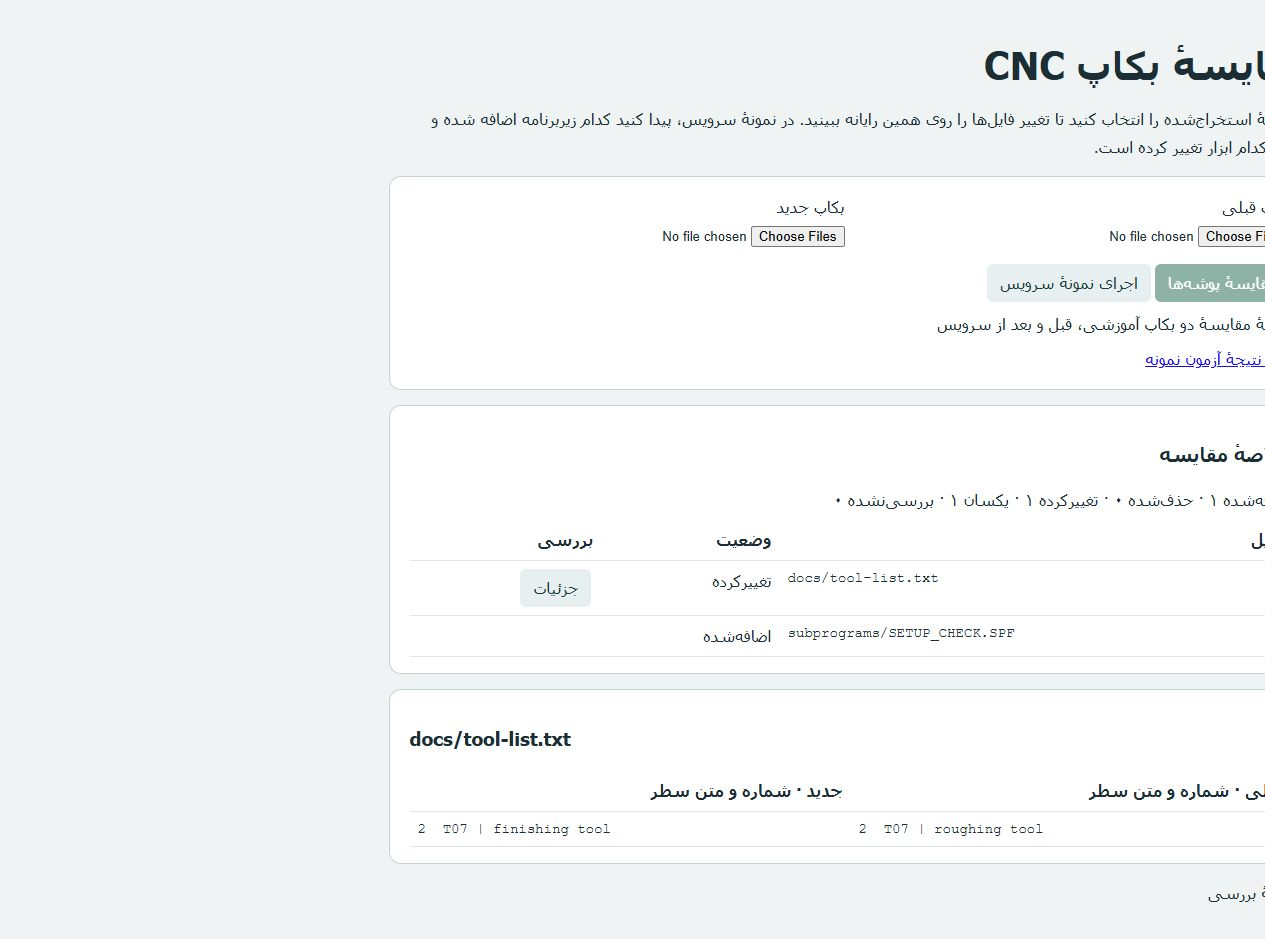
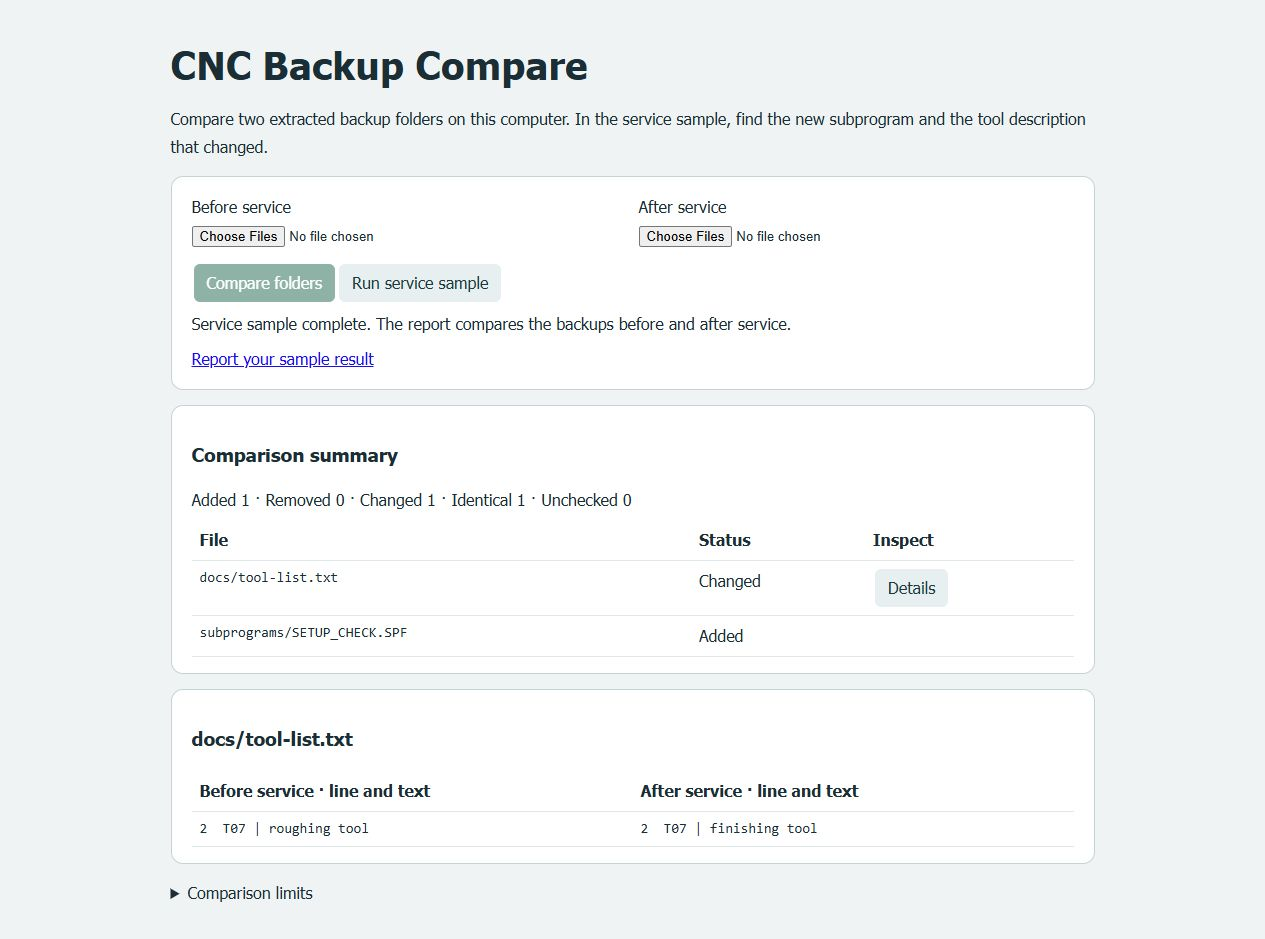
Use English throughout the browser app, sample and guide

diff --git a/index.html b/index.html
@@ -1,13 +1,13 @@
-<!doctype html><html lang="fa" dir="rtl"><meta charset="utf-8"><meta name="viewport" content="width=device-width,initial-scale=1"><meta http-equiv="Content-Security-Policy" content="default-src 'none'; style-src 'unsafe-inline'; script-src 'unsafe-inline'; connect-src 'none'; form-action 'none'; base-uri 'none'"><title>مقایسهٔ بکاپ CNC</title>
+<!doctype html><html lang="en" dir="ltr"><meta charset="utf-8"><meta name="viewport" content="width=device-width,initial-scale=1"><meta http-equiv="Content-Security-Policy" content="default-src 'none'; style-src 'unsafe-inline'; script-src 'unsafe-inline'; connect-src 'none'; form-action 'none'; base-uri 'none'"><title>CNC Backup Compare</title>
 <style>*{box-sizing:border-box}body{margin:0;background:#eff3f4;color:#192e35;font:16px/1.75 Tahoma,sans-serif}main{max-width:960px;margin:auto;padding:32px 18px}h1{margin:0;font-size:clamp(1.6rem,5vw,2.4rem)}h2{font-size:1.18rem}section{background:white;border:1px solid #c5d3d6;border-radius:12px;padding:16px 20px;margin:15px 0}p{margin:6px 0}.folders{display:flex;gap:12px;flex-wrap:wrap}label{flex:1;min-width:180px}input{max-width:100%;display:block;margin:5px 0 15px}button{font:inherit;cursor:pointer;background:#086650;color:white;border:0;border-radius:6px;padding:5px 13px;margin:2px}button.secondary{background:#e6eff0;color:#163b41}button:focus-visible,summary:focus-visible{outline:3px solid #b77607}button:disabled{opacity:.5}table{width:100%;border-collapse:collapse}td,th{padding:6px 8px;border-bottom:1px solid #dfe7e8;text-align:start;vertical-align:top;overflow-wrap:anywhere}td.path,td.code{direction:ltr;text-align:left;font:14px/1.6 monospace;white-space:pre-wrap}td.code{width:50%}small{color:#485d64}summary{cursor:pointer}#msg{min-height:1.8em}</style>
-<main><h1>مقایسهٔ بکاپ CNC</h1><p>دو پوشهٔ استخراجشده را انتخاب کنید تا تغییر فایلها را روی همین رایانه ببینید. در نمونهٔ سرویس، پیدا کنید کدام زیربرنامه اضافه شده و توضیح کدام ابزار تغییر کرده است.</p>
-<section><div class="folders"><label>بکاپ قبلی<input id="old" type="file" webkitdirectory multiple></label><label>بکاپ جدید<input id="new" type="file" webkitdirectory multiple></label></div><button id="go" disabled>مقایسهٔ پوشهها</button><button id="example" class="secondary">اجرای نمونهٔ سرویس</button><p id="msg" role="status"></p><a id="feedback" hidden href="https://github.com/aminenayatollahi-source/cnc-backup-compare/issues/1">ثبت نتیجهٔ آزمون نمونه</a></section>
-<section id="report" hidden><h2>خلاصهٔ مقایسه</h2><p id="counts"></p><table><thead><tr><th>فایل</th><th>وضعیت</th><th>بررسی</th></tr></thead><tbody id="list"></tbody></table></section><section id="detail" hidden><h2 id="which" dir="auto"></h2><div id="diff"></div></section>
-<details><summary>دامنهٔ بررسی</summary><p>مقایسه بر اساس مسیر نسبی فایل است. فایلهای هممسیر تا ۶۴ MiB با SHA-256 مقایسه میشوند. موارد خواندهنشده جداگانه گزارش میشوند. مقایسهٔ سطری برای متن UTF-8 یا UTF-16 دارای BOM، تا ۱۲۸ KiB در هر فایل و حداکثر ۷۵۰٬۰۰۰ خانهٔ مقایسه در دسترس است. برای بکاپ فشرده، ابتدا پوشه را استخراج کنید. این ابزار محتوای اختصاصی ARC یا PLC را رمزگشایی نمیکند.</p></details></main><script>'use strict';
+<main><h1>CNC Backup Compare</h1><p>Compare two extracted backup folders on this computer. In the service sample, find the new subprogram and the tool description that changed.</p>
+<section><div class="folders"><label>Before service<input id="old" type="file" webkitdirectory multiple></label><label>After service<input id="new" type="file" webkitdirectory multiple></label></div><button id="go" disabled>Compare folders</button><button id="example" class="secondary">Run service sample</button><p id="msg" role="status"></p><a id="feedback" hidden href="https://github.com/aminenayatollahi-source/cnc-backup-compare/issues/1">Report your sample result</a></section>
+<section id="report" hidden><h2>Comparison summary</h2><p id="counts"></p><table><thead><tr><th>File</th><th>Status</th><th>Inspect</th></tr></thead><tbody id="list"></tbody></table></section><section id="detail" hidden><h2 id="which" dir="auto"></h2><div id="diff"></div></section>
+<details><summary>Comparison limits</summary><p>Files are matched by relative path and compared with SHA-256 up to 64 MiB per file. Unreadable or oversized files appear as unchecked. Line comparison supports UTF-8 and BOM-marked UTF-16 text up to 128 KiB per file and 750,000 comparison cells. Extract compressed backups first. Proprietary ARC and PLC formats are not decoded.</p></details></main><script>'use strict';
 const MAX_HASH = 64 * 1024 * 1024;
 const MAX_TEXT = 128 * 1024;
 async function fingerprint(file) {
-  if (file.size > MAX_HASH) throw new Error('بزرگتر از حد ۶۴ مگابایت');
+  if (file.size > MAX_HASH) throw new Error('Exceeds the 64 MiB limit');
   const bytes = await file.arrayBuffer();
   const hash = new Uint8Array(await crypto.subtle.digest('SHA-256', bytes));
   return Array.from(hash, b => b.toString(16).padStart(2,'0')).join('');
@@ -16,9 +16,9 @@ function indexFolder(files) {
   const map = new Map();
   for (const f of files) {
     const path = f.webkitRelativePath;
-    if (!path || !path.includes('/')) throw Error('مسیر نسبی پوشه در مرورگر موجود نیست.');
+    if (!path || !path.includes('/')) throw Error('The browser did not provide a relative folder path.');
     const key = path.slice(path.indexOf('/') + 1);
-    if (map.has(key)) throw Error('مسیر تکراری در پوشه');
+    if (map.has(key)) throw Error('Duplicate path in the selected folder.');
     map.set(key, f);
   }
   return map;
@@ -71,7 +71,7 @@ function changedLines(a,b) {
 }
 
 const $=id=>document.getElementById(id);
-const names={added:'اضافهشده',removed:'حذفشده',changed:'تغییرکرده',same:'یکسان',unchecked:'بررسینشده'};
+const names={added:'Added',removed:'Removed',changed:'Changed',same:'Identical',unchecked:'Unchecked'};
 let detailVersion=0, busy=false;
 function el(tag,t){const node=document.createElement(tag);node.textContent=t??'';return node;}
 function refresh(){ $('go').disabled=busy||!$('old').files.length||!$('new').files.length; }
@@ -80,37 +80,37 @@ $('old').onchange=clearReport;$('new').onchange=clearReport;
 async function inspect(r){
   const revision=++detailVersion;
   $('detail').hidden=false;$('which').textContent=r.path;
-  const diff=$('diff');diff.textContent='در حال خواندن…';
+  const diff=$('diff');diff.textContent='Reading file…';
   try {
     const [a,b]=await Promise.all([linesOf(r.a),linesOf(r.b)]);
     if(revision!==detailVersion)return;
-    if(!a||!b){diff.textContent='هش فایل تغییر کرده است. نمایش سطری برای این قالب یا اندازه در دسترس نیست.';return;}
+    if(!a||!b){diff.textContent='The file hash changed. Line comparison is unavailable for this file format or size.';return;}
     const lines=changedLines(a,b);
-    if(!lines){diff.textContent='هش فایل تغییر کرده است. تعداد سطرها از سقف نمایش بیشتر است.';return;}
-    if(!lines.length){diff.textContent='بایتها تغییر کردهاند، اما متن سطرها یکسان است. کُدگذاری یا پایان سطر میتواند علت باشد.';return;}
+    if(!lines){diff.textContent='The file hash changed. The number of lines exceeds the comparison limit.';return;}
+    if(!lines.length){diff.textContent='The file bytes differ but the text lines match. Check the encoding or line endings.';return;}
     const table=el('table'),head=table.createTHead().insertRow();
-    head.append(el('th','قبلی · شماره و متن سطر'),el('th','جدید · شماره و متن سطر'));
+    head.append(el('th','Before service · line and text'),el('th','After service · line and text'));
     const body=table.createTBody();for(const pair of lines){const row=body.insertRow();for(const item of pair){const c=row.insertCell();c.className='code';c.textContent=item?item[0]+'  '+item[1]:'—';}}diff.replaceChildren(table);
-  }catch{if(revision===detailVersion)diff.textContent='خواندن فایل برای نمایش سطرها ممکن نشد.';}
+  }catch{if(revision===detailVersion)diff.textContent='Could not read the file for line comparison.';}
 }
 async function run(getFolders,label,showFeedback=false){
   clearReport();busy=true;for(const id of ['go','example','old','new'])$(id).disabled=true;
   try{
-    if(!crypto.subtle)throw Error('مرورگر به SHA-256 دسترسی ندارد. فایل را در نسخهٔ جدید Edge یا Chrome باز کنید.');
-    $('msg').textContent='در حال مقایسه…';
+    if(!crypto.subtle)throw Error('SHA-256 is unavailable in this browser. Open the file in a recent version of Edge or Chrome.');
+    $('msg').textContent='Comparing files…';
     const data=await compareFolders(...getFolders()), stats={added:0,removed:0,changed:0,same:0,unchecked:0};
     const rows=document.createDocumentFragment();
     for(const r of data){stats[r.state]++;if(r.state==='same')continue;
       const row=el('tr'),path=row.insertCell();path.className='path';path.textContent=r.path;
       row.insertCell().textContent=names[r.state];const action=row.insertCell();
-      if(r.state==='changed'){const btn=el('button','جزئیات');btn.className='secondary';btn.onclick=()=>inspect(r);action.append(btn);}
+      if(r.state==='changed'){const btn=el('button','Details');btn.className='secondary';btn.onclick=()=>inspect(r);action.append(btn);}
       else if(r.note)action.textContent=r.note;rows.append(row);
     }
-    $('list').replaceChildren(rows);$('counts').textContent=Object.entries(stats).map(([k,v])=>names[k]+' '+v.toLocaleString('fa-IR')).join('  ·  ');$('report').hidden=false;$('msg').textContent=label;$('feedback').hidden=!showFeedback;
+    $('list').replaceChildren(rows);$('counts').textContent=Object.entries(stats).map(([k,v])=>names[k]+' '+v.toLocaleString('en-US')).join('  ·  ');$('report').hidden=false;$('msg').textContent=label;$('feedback').hidden=!showFeedback;
   }catch(e){$('msg').textContent=e.message}
   finally{busy=false;for(const id of ['example','old','new'])$(id).disabled=false;refresh();}
 }
-$('go').onclick=()=>run(()=>[indexFolder($('old').files),indexFolder($('new').files)],'مقایسهٔ فایلهای انتخابی پایان یافت.');
+$('go').onclick=()=>run(()=>[indexFolder($('old').files),indexFolder($('new').files)],'Finished comparing the selected folders.');
 function sampleFolders() {
   // Text-only fixtures for comparing the two snapshots from a fictional service visit.
   const before = new Map();
@@ -126,4 +126,4 @@ function sampleFolders() {
   addFile(after, 'subprograms/SETUP_CHECK.SPF', '; SETUP_CHECK: training placeholder\n; Service visit documentation\n');
   return [before, after];
 }
-$('example').onclick = () => run(sampleFolders, 'نتیجهٔ مقایسهٔ دو بکاپ آموزشی، قبل و بعد از سرویس', true);</script></html>
+$('example').onclick = () => run(sampleFolders, 'Service sample complete. The report compares the backups before and after service.', true);</script></html>

diff --git a/README.md b/README.md
@@ -1,14 +1,14 @@
 # CNC Backup Compare
 
-[آزمون با دو بکاپ ساختگی و ثبت نتیجه](https://github.com/aminenayatollahi-source/cnc-backup-compare/issues/1) · [Try the sample and report your result](https://github.com/aminenayatollahi-source/cnc-backup-compare/issues/1)
+[Try the sample and report your result](https://github.com/aminenayatollahi-source/cnc-backup-compare/issues/1)
 
 [Open the browser demo](https://aminenayatollahi-source.github.io/cnc-backup-compare/)
 
-Compare two extracted CNC backup folders before and after a service visit. The interface is in Persian. It runs in your browser and reads the folders you select locally.
+Compare two extracted CNC backup folders before and after a service visit. It runs in your browser and reads the folders you select locally.
 
 ## Try the service-visit sample
 
-A technician saved a second backup after a service visit. Which subprogram appeared, and which tool description changed? [Open the demo](https://aminenayatollahi-source.github.io/cnc-backup-compare/), click **اجرای نمونهٔ سرویس**, then use **جزئیات** on the changed file. Both snapshots are built in.
+A technician saved a second backup after a service visit. Which subprogram appeared, and which tool description changed? [Open the demo](https://aminenayatollahi-source.github.io/cnc-backup-compare/), click **Run service sample**, then use **Details** on the changed file. Both snapshots are built in.
 
 <details>
 <summary>Check your findings and see the comparison</summary>
@@ -23,9 +23,9 @@ The report shows one added file, one changed file and one identical file. The ne
 
 ## Compare your folders
 
-1. Choose the older extracted folder under **بکاپ قبلی** and the newer one under **بکاپ جدید**.
-2. Click **مقایسهٔ پوشهها** (Compare folders). Files are matched by their relative paths within the two selected roots.
-3. Use **جزئیات** to inspect changed files. Matching paths are compared with SHA-256. Supported text files show the old and new line numbers side by side.
+1. Choose the older extracted folder under **Before service** and the newer one under **After service**.
+2. Click **Compare folders**. Files are matched by their relative paths within the two selected roots.
+3. Use **Details** to inspect changed files. Matching paths are compared with SHA-256. Supported text files show the old and new line numbers side by side.
 
 The application is a single [HTML file](index.html) with embedded JavaScript and CSS. It uses the browser's directory picker and Web Crypto. You can download the file for local use. The hosted demo processes the file contents in the browser as well.
 
@@ -35,9 +35,5 @@ The application is a single [HTML file](index.html) with embedded JavaScript and
 - The per-file hashing limit is 64 MiB. Unreadable and oversized matching files have a separate unchecked status.
 - Line comparison supports UTF-8 and BOM-marked UTF-16, up to 128 KiB per file and 750,000 comparison cells. Binary differences are reported by hash.
 - The example and validation use synthetic backups. For a bug report, include the browser version and a small synthetic example you can share publicly.
-
-## فارسی
-
-برای دیدن طرز کار، [دمو را باز کنید](https://aminenayatollahi-source.github.io/cnc-backup-compare/) و «اجرای نمونهٔ سرویس» را بزنید. برای مقایسهٔ بکاپهای خودتان، دو پوشهٔ استخراجشده را انتخاب کنید. محتوای بکاپها روی رایانهٔ شما پردازش میشود.
 
 [Report an issue](https://github.com/aminenayatollahi-source/cnc-backup-compare/issues) · [MIT License](LICENSE)
